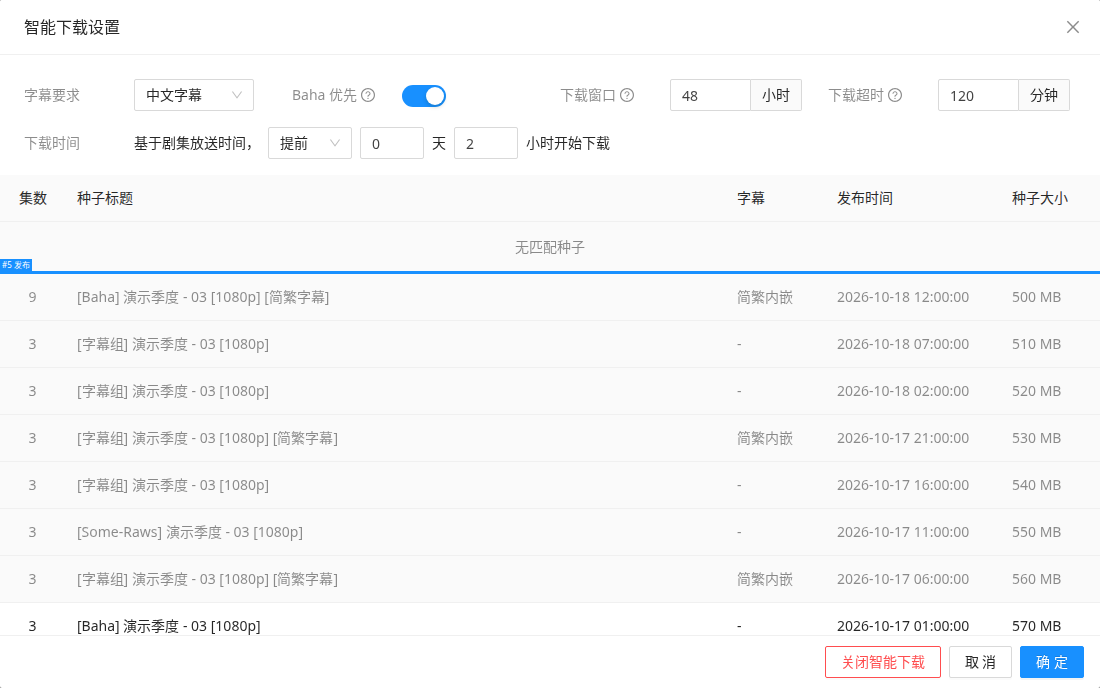
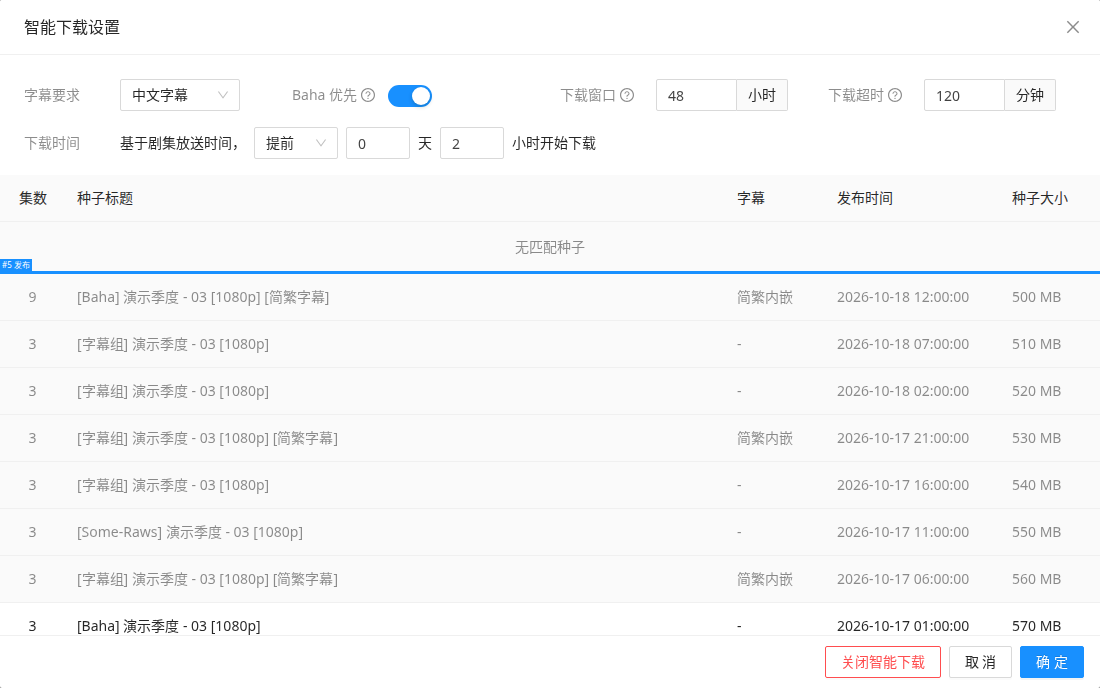
style(admin): 收窄智能下载设置的固定标签宽度

diff --git a/apps/admin/src/pages/season/parts/smart-download/index.module.less b/apps/admin/src/pages/season/parts/smart-download/index.module.less
@@ -31,7 +31,7 @@
   }
   :global(.ant-form-item-row) {
     display: grid;
-    grid-template-columns: 110px minmax(0, 1fr);
+    grid-template-columns: 96px minmax(0, 1fr);
   }
   :global(.ant-form-item-label) {
     padding: 0 8px 0 0;
